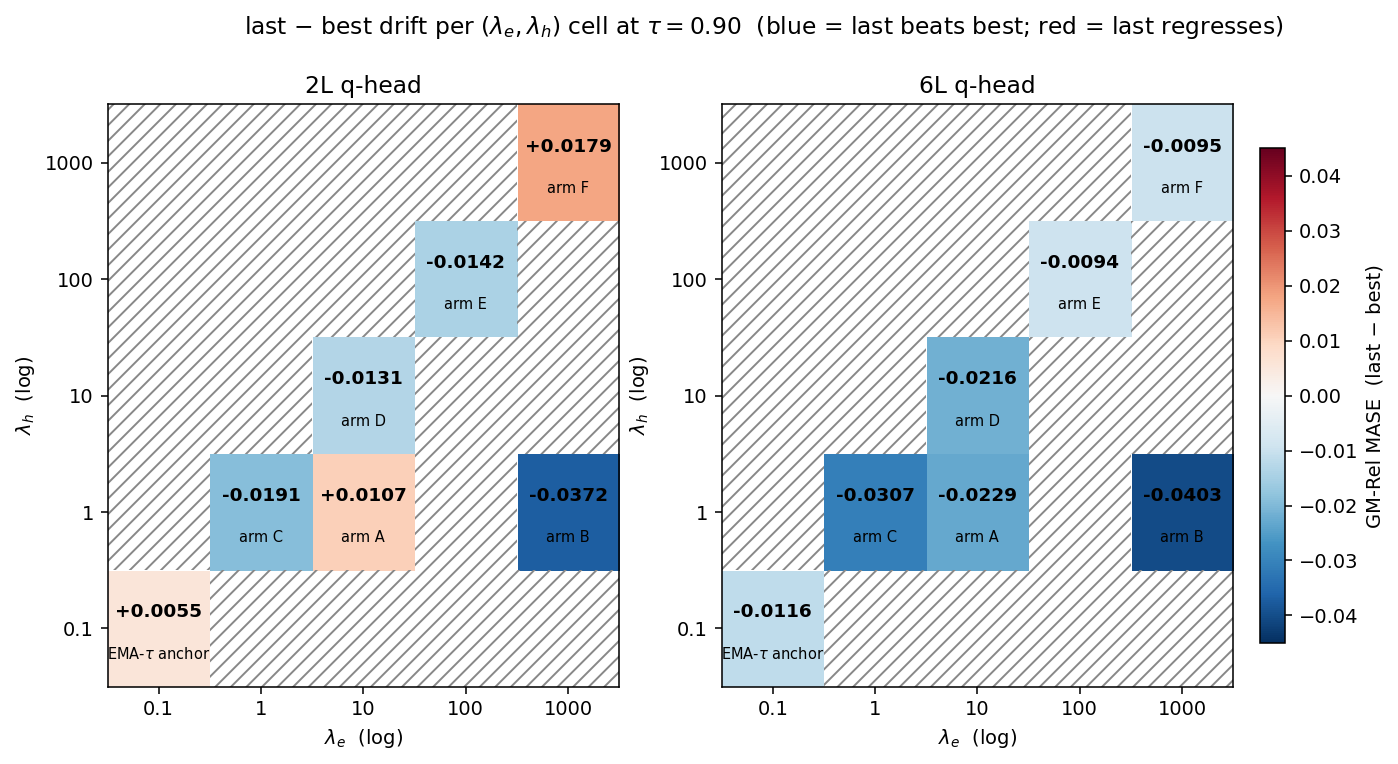
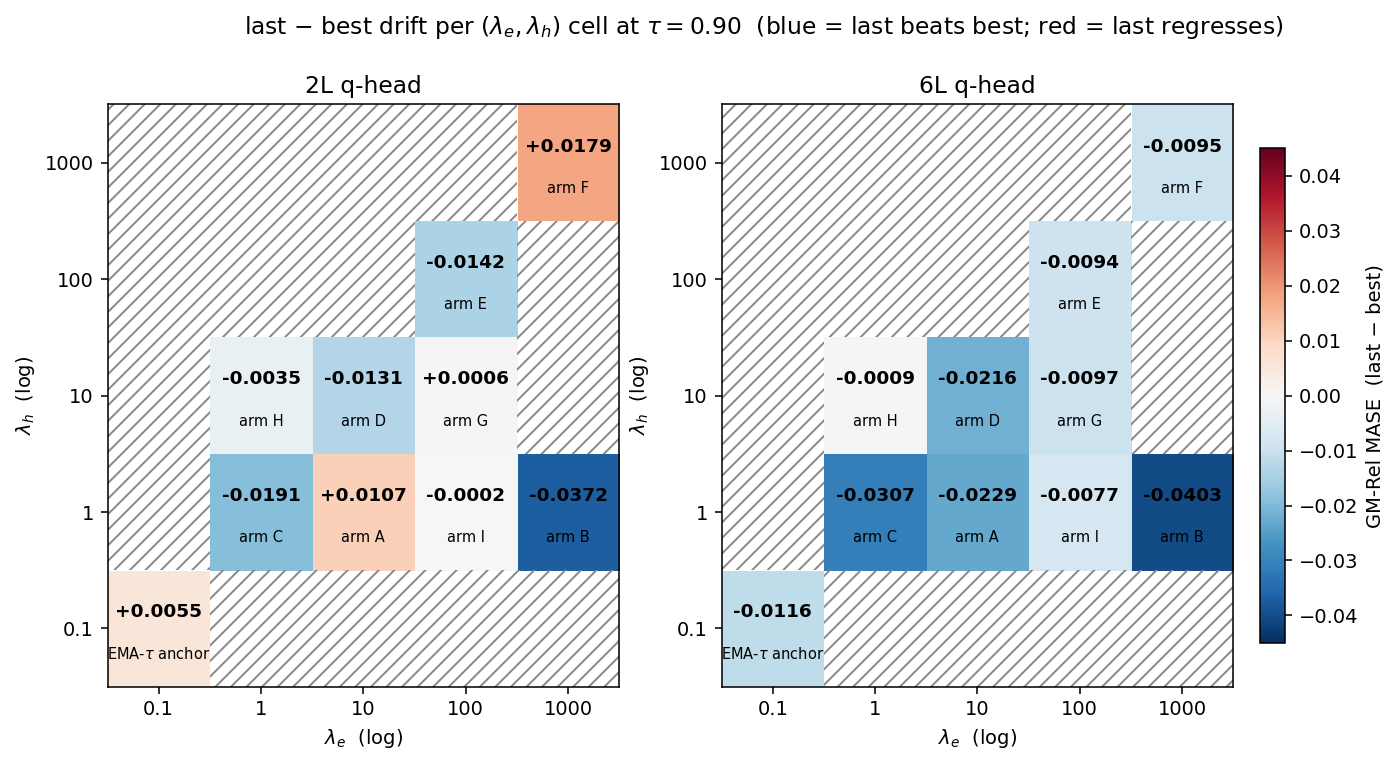
report(#366): extend τ=0.90 grid to full 9-arm set + arm I
Adds three more arms at τ=0.90: G (100, 10), H (1, 10), I (100, 1).
gm_table.csv gains 12 more rows (arms G/H/I × 4 cells each).
launch_arms_i.sh runs single-GPU sequential (BB on g0, then 2L on g0,
then 6L on g0) so the other GPU is free for a parallel follow-up
experiment (#369).

Both lambda_grid_tau090.png and lambda_grid_last_minus_best_tau090.png
now render 10 filled cells: anchor (0.1, 0.1) + 9 crosses at
(λ_e, λ_h) ∈ {1, 10, 100, 1000} × {1, 10, 100, 1000}, with only the
diagonal and one column left as hatched.

Winner on both `last`-ckpt heads is arm C (λ=1, λ_h=1):
  6L / last = 1.1254   2L / last = 1.1491

Claude-Session: https://claude.ai/code/session_01Th9HQZkNmqHrm8YpSQ83S3

diff --git a/reports/2026-06-28_sigreg_lambda_tau_cross/plots/_make_plots.py b/reports/2026-06-28_sigreg_lambda_tau_cross/plots/_make_plots.py
@@ -30,6 +30,9 @@ CROSS_C = "cross_C"
 CROSS_D = "cross_D"
 CROSS_E = "cross_E"
 CROSS_F = "cross_F"
+CROSS_G = "cross_G"
+CROSS_H = "cross_H"
+CROSS_I = "cross_I"
 A363_E100 = "anchor_363_emb100_enc10"
 A363_E10000 = "anchor_363_emb10000_enc10"
 A357 = "anchor_357_tau090"
@@ -168,20 +171,20 @@ def lambda_grid_tau090():
     cells_tau090 = {
         (0.1,   0.1):    A357,
         (1.0,   1.0):    CROSS_C,
+        (1.0,   10.0):   CROSS_H,
         (10.0,  1.0):    CROSS_A,
         (10.0,  10.0):   CROSS_D,
+        (100.0, 1.0):    CROSS_I,
+        (100.0, 10.0):   CROSS_G,
         (100.0, 100.0):  CROSS_E,
         (1000.0, 1.0):   CROSS_B,
         (1000.0, 1000.0): CROSS_F,
     }
     arm_short = {
         A357:    r"EMA-$\tau$ anchor",
-        CROSS_A: "arm A",
-        CROSS_B: "arm B",
-        CROSS_C: "arm C",
-        CROSS_D: "arm D",
-        CROSS_E: "arm E",
-        CROSS_F: "arm F",
+        CROSS_A: "arm A", CROSS_B: "arm B", CROSS_C: "arm C",
+        CROSS_D: "arm D", CROSS_E: "arm E", CROSS_F: "arm F",
+        CROSS_G: "arm G", CROSS_H: "arm H", CROSS_I: "arm I",
     }
 
     fig, axes = plt.subplots(2, 2, figsize=(12.5, 8.0))
@@ -241,15 +244,19 @@ def lambda_grid_last_minus_best_tau090():
     cells_tau090 = {
         (0.1,   0.1):    A357,
         (1.0,   1.0):    CROSS_C,
+        (1.0,   10.0):   CROSS_H,
         (10.0,  1.0):    CROSS_A,
         (10.0,  10.0):   CROSS_D,
+        (100.0, 1.0):    CROSS_I,
+        (100.0, 10.0):   CROSS_G,
         (100.0, 100.0):  CROSS_E,
         (1000.0, 1.0):   CROSS_B,
         (1000.0, 1000.0): CROSS_F,
     }
     arm_short = {A357: r"EMA-$\tau$ anchor", CROSS_A: "arm A",
                  CROSS_B: "arm B", CROSS_C: "arm C", CROSS_D: "arm D",
-                 CROSS_E: "arm E", CROSS_F: "arm F"}
+                 CROSS_E: "arm E", CROSS_F: "arm F", CROSS_G: "arm G",
+                 CROSS_H: "arm H", CROSS_I: "arm I"}
     heads = ["2L", "6L"]
 
     fig, axes = plt.subplots(1, 2, figsize=(12.5, 5.4))
